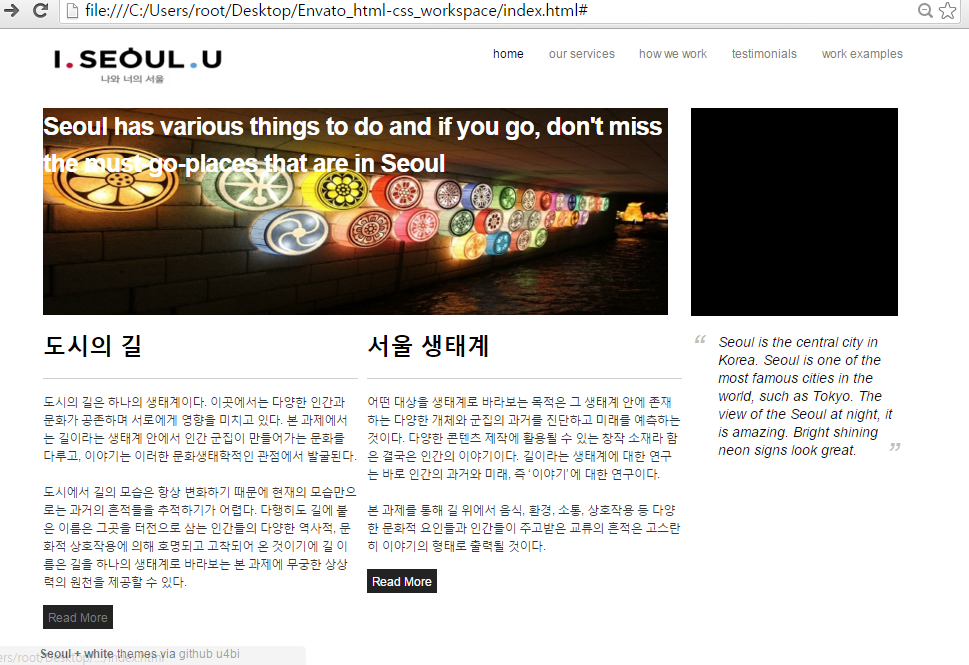
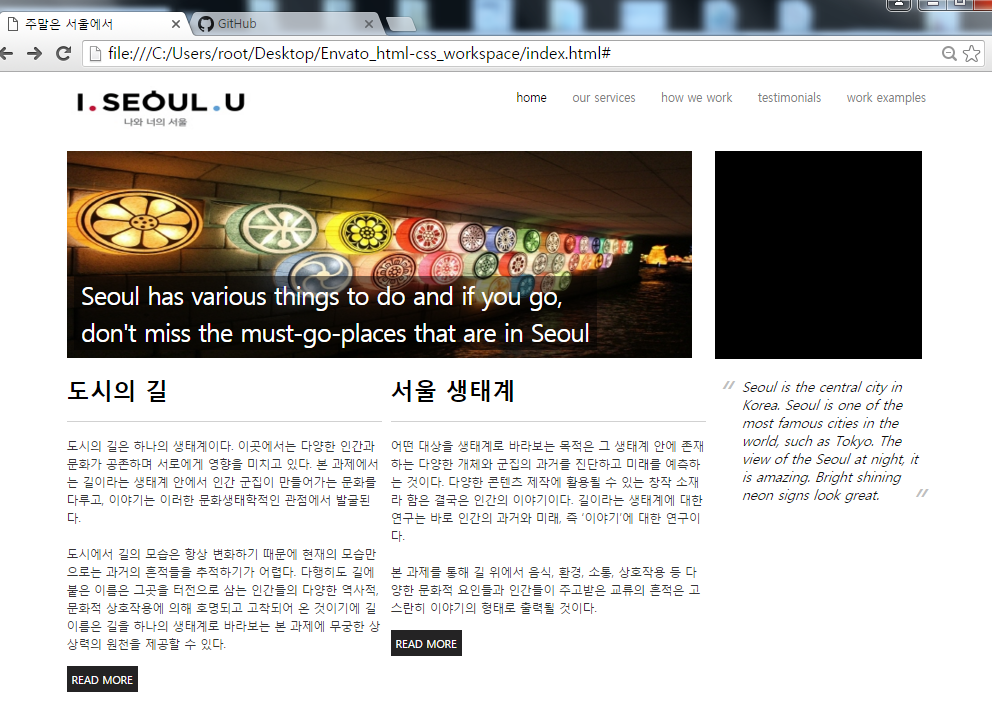
the css for our website -3

diff --git a/css/style.css b/css/style.css
@@ -1,5 +1,5 @@
 body{
-
+  font-family: sans-serif;
 }
 
 .grid_3 { margin-left: 60px; }
@@ -52,9 +52,13 @@ a:hover, .selected {
 .button {
   background: #242324;
   padding: 6px;
+  color: white;
+  font-size: 12px;
+  text-transform: uppercase;
 }
 
 .button:hover{
+  background: black;
   color: white;
 }
 
@@ -108,11 +112,18 @@ nav a {
   width: 695px;
   height: 231px;
   clear: both;
+  position: relative;
 }
 
 .banner h2 {
   color: white;
   font-size: 28px;
+  font-weight: normal;
+  position: absolute;
+  bottom: -10px;
+  padding: 0 8px;
+  left: 8px;
+  background: rgba(0,0,0,.5);
 }
 .callout {
   background: black;
@@ -158,4 +169,7 @@ nav a {
 */
 footer{
   clear: both;
+  border-top : 1px solid #d1d1d1;
+  padding-top: 18px;
+  margin-top : 30px;
 }

diff --git a/index.html b/index.html
@@ -24,14 +24,14 @@
 
         <div class="banner grid_18">
           <h2>
-            Seoul has various things to do and if you go, 
+            Seoul has various things to do and if you go,<br> 
             don't miss the must-go-places that are in Seoul
           </h2>
         </div>
         <div class="grid_6 callout"></div>
       </header>
 
-      <div class="main">
+      <div class="main clearfix">
         <div class="grid_9">
           <h3>도시의 길</h3>
           <p>도시의 길은 하나의 생태계이다. 이곳에서는 다양한 인간과 문화가 공존하며 서로에게 영향을 미치고 있다.
